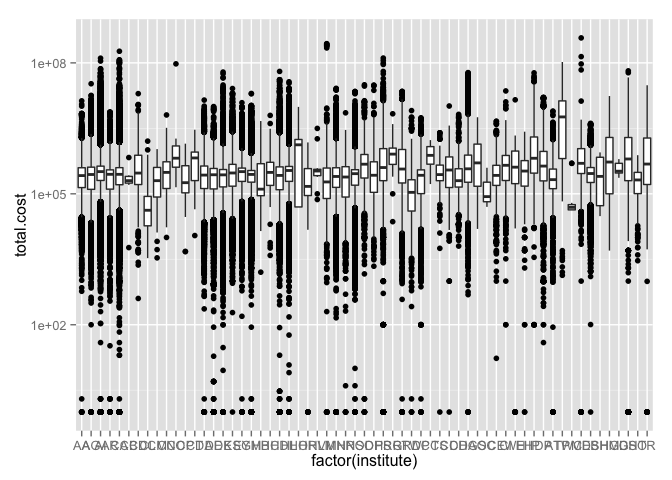
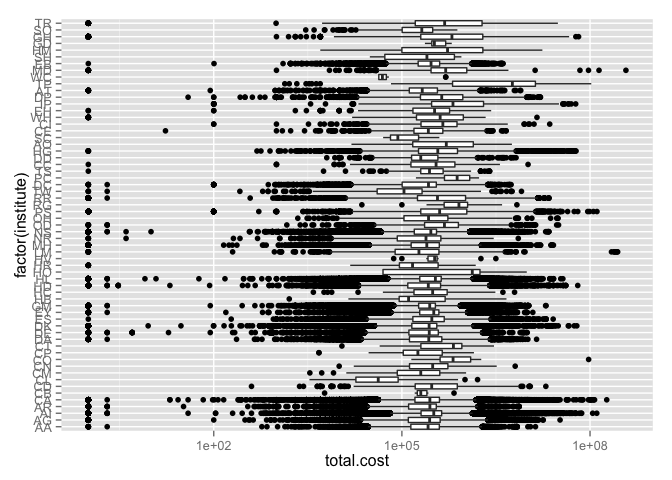
new readme

diff --git a/README.md b/README.md
@@ -76,8 +76,9 @@ year 2000:
     grant.spending %>%
       ggplot(aes(factor(institute), total.cost)) +
       geom_boxplot() +
-      scale_y_log10() 
+      scale_y_log10() +
+      coord_flip()
 
 ![](README_files/figure-markdown_strict/grant.spending-1.png)
 
-See the [vignette](vignette/nihexporter.Rmd) for more examples.
+See the [vignette](vignettes/nihexporter.Rmd) for more examples.
